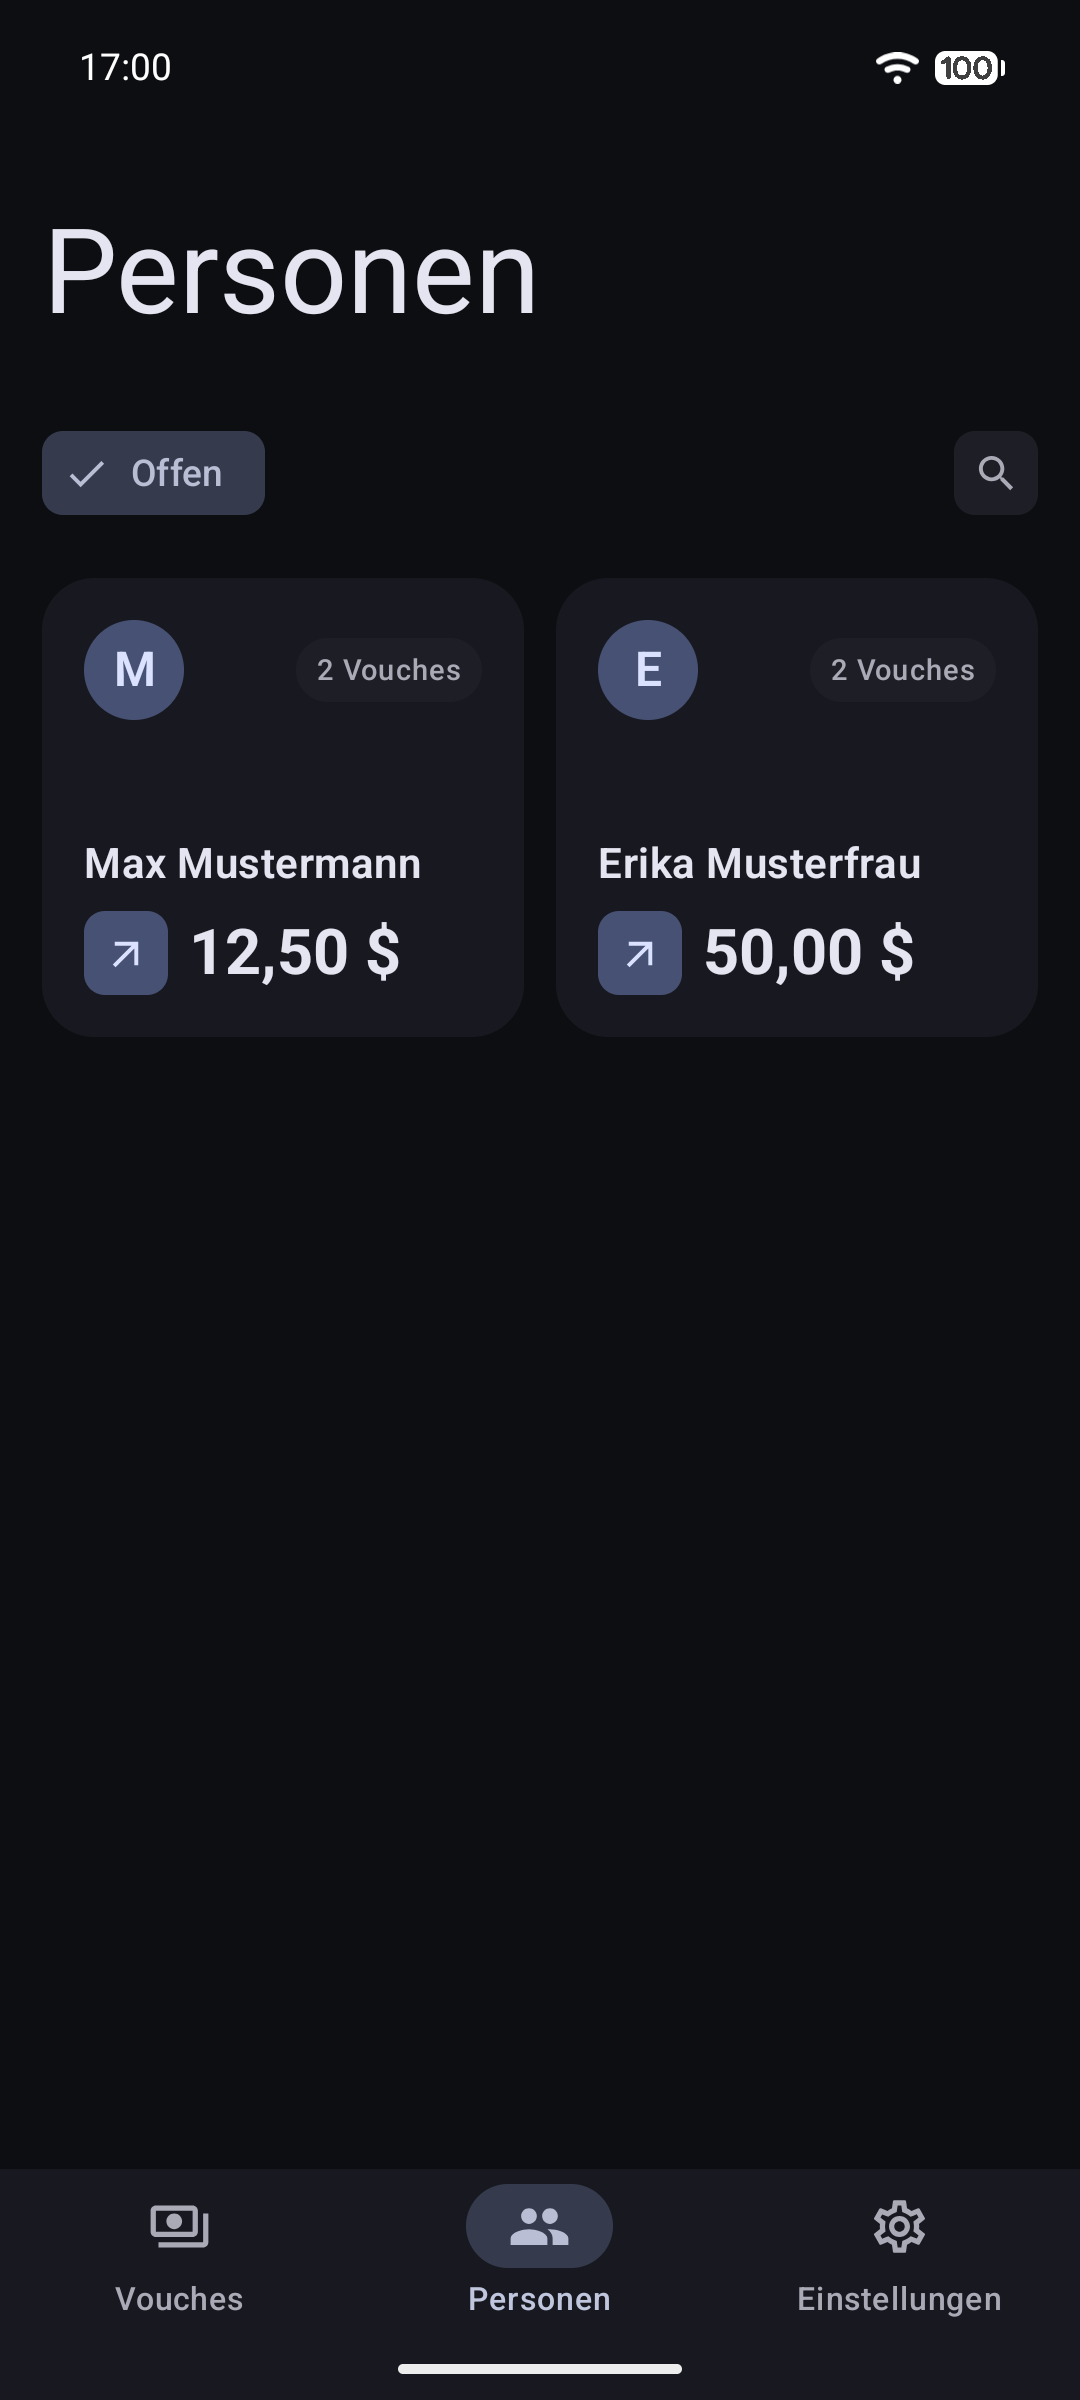
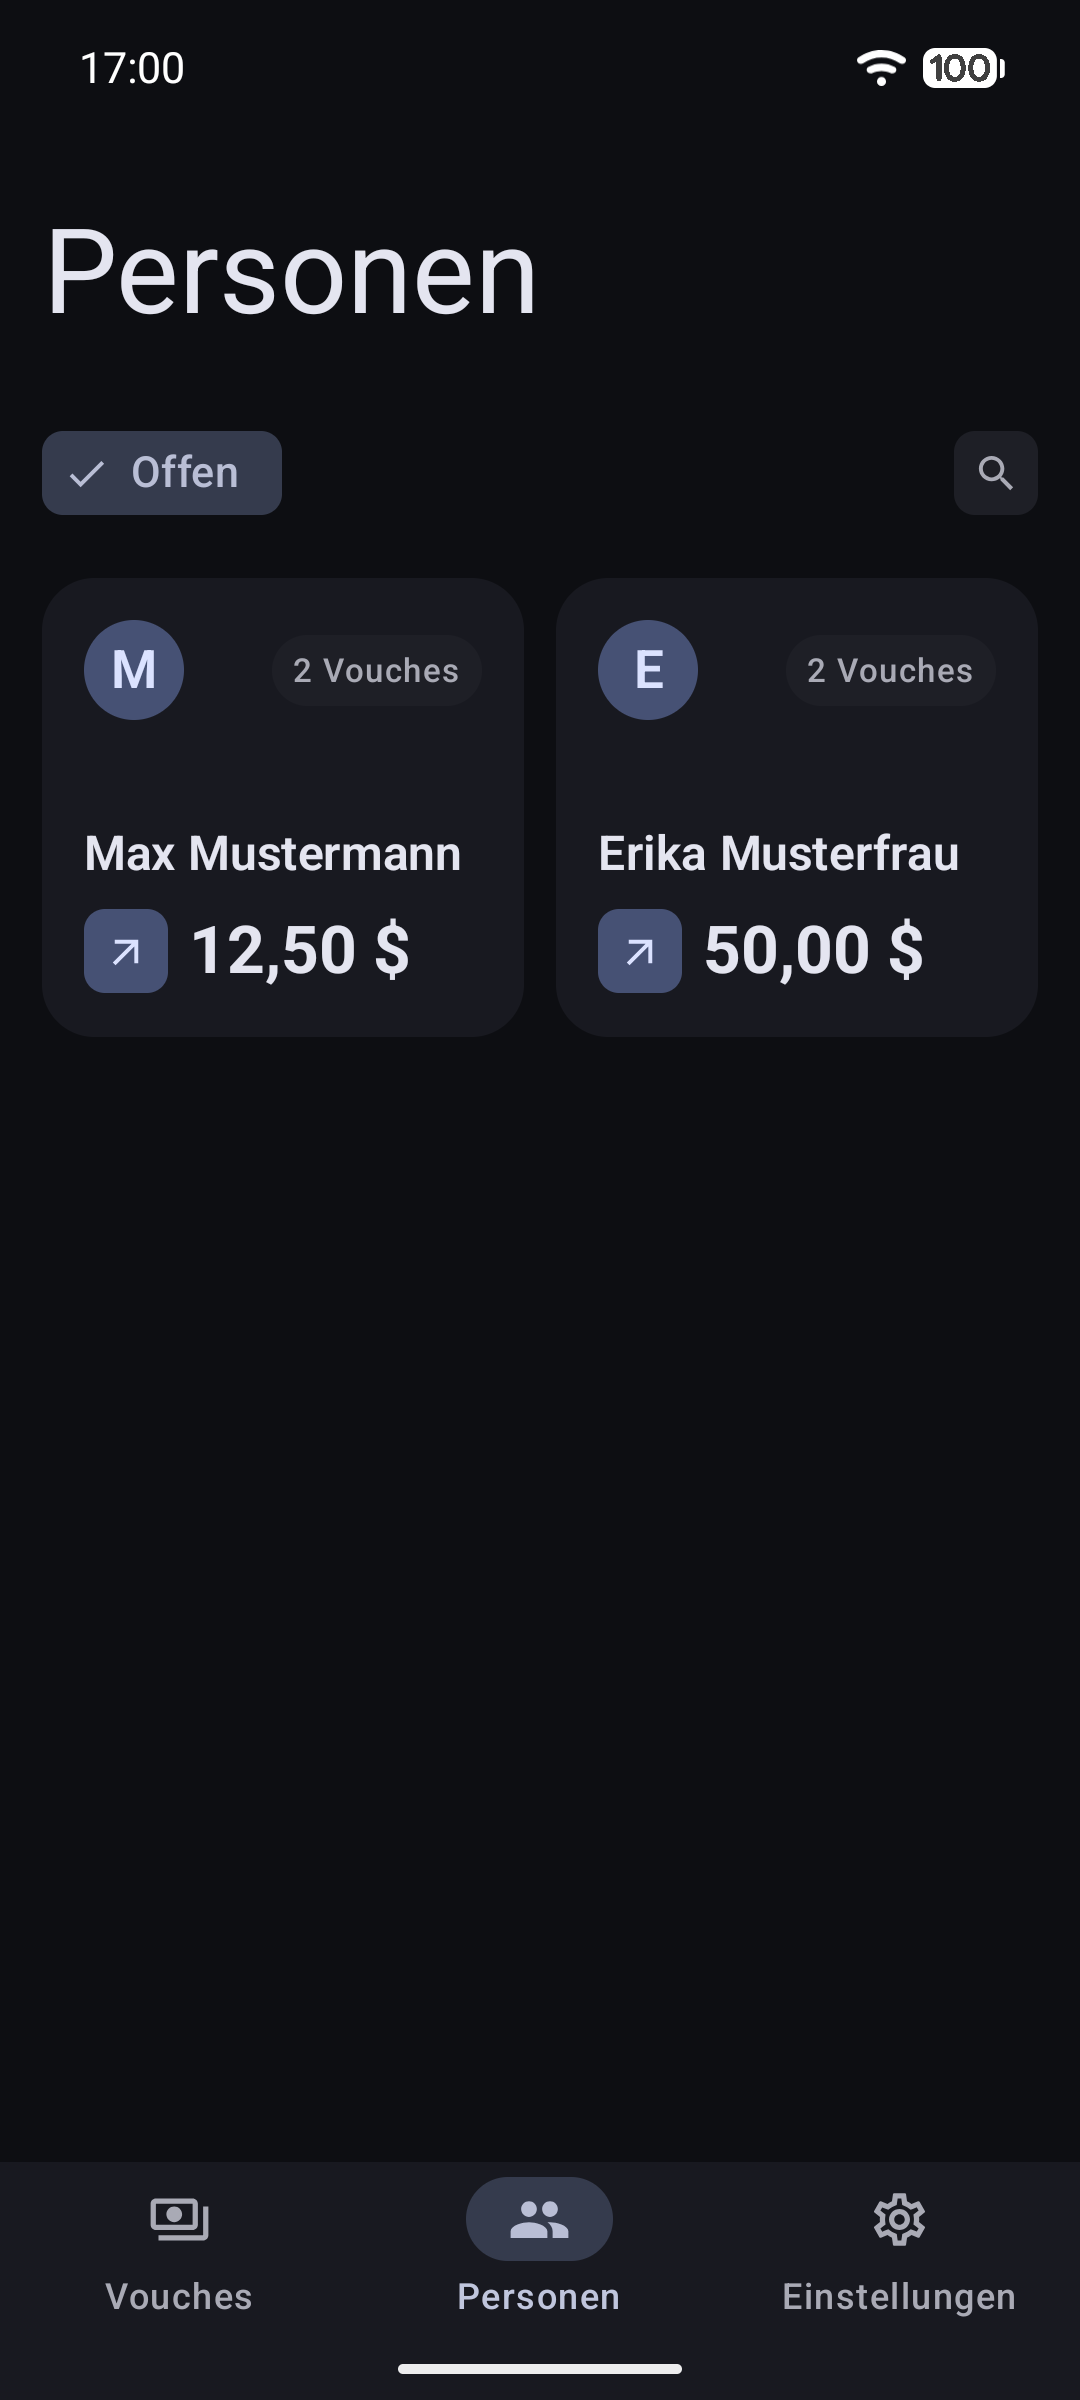
feat(screenshots): set font scale to step 3 (1.15)

diff --git a/app/src/androidTest/java/com/iyox/vouch/screenshots/ScreenshotTest.kt b/app/src/androidTest/java/com/iyox/vouch/screenshots/ScreenshotTest.kt
@@ -78,7 +78,7 @@ class ScreenshotTest {
             uiAutomation.executeShellCommand("settings put global sysui_demo_allowed 1")
             uiAutomation.executeShellCommand("settings put system time_12_24 24")
             uiAutomation.executeShellCommand("settings put system status_bar_show_battery_percent 1")
-            uiAutomation.executeShellCommand("settings put system font_scale 1.0")
+            uiAutomation.executeShellCommand("settings put system font_scale 1.15")
             uiAutomation.executeShellCommand("am broadcast -a com.android.systemui.demo -e command enter")
             uiAutomation.executeShellCommand("am broadcast -a com.android.systemui.demo -e command clock -e hhmm 1700")
             uiAutomation.executeShellCommand("am broadcast -a com.android.systemui.demo -e command battery -e level 100 -e plugged false")
